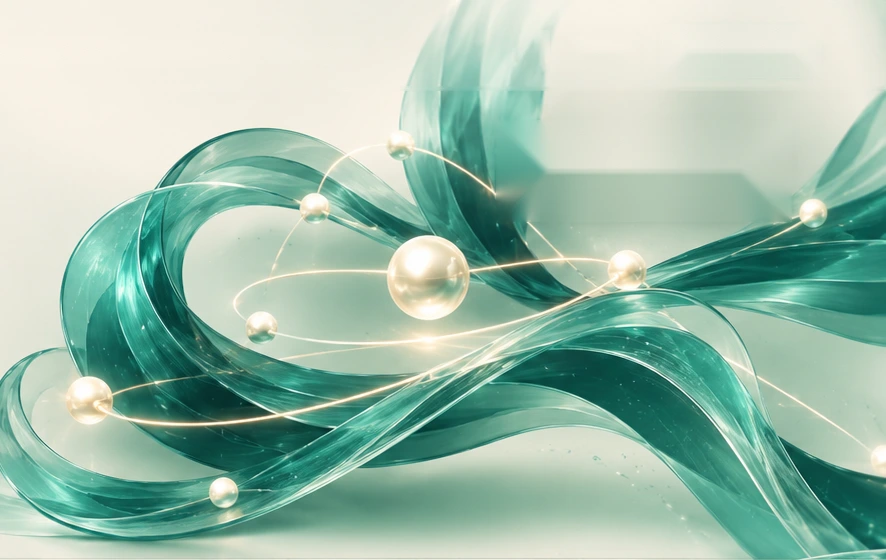
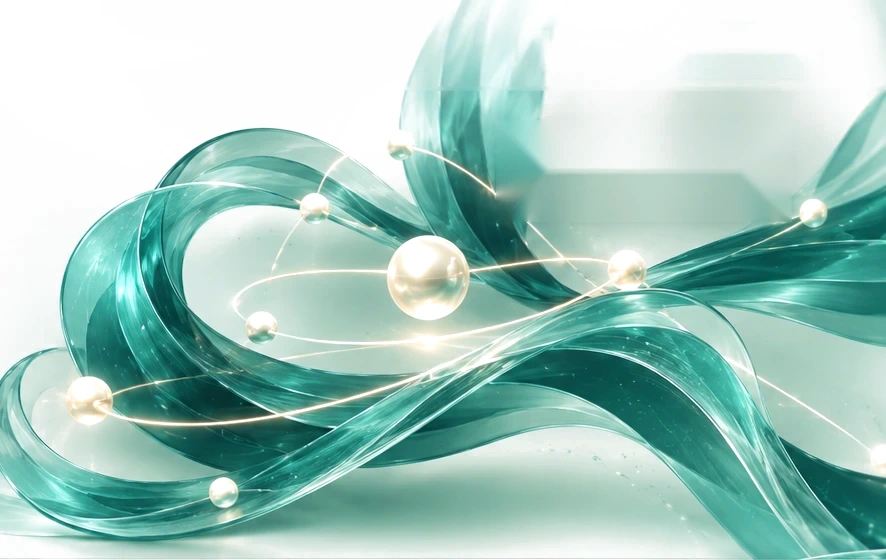
pura cream to white

diff --git a/src/components/layout/Navbar.module.css b/src/components/layout/Navbar.module.css
@@ -6,7 +6,7 @@
   transition: background 0.5s var(--ease), box-shadow 0.5s var(--ease), border-color 0.5s;
 }
 .scrolled {
-  background: rgba(251, 246, 236, 0.78);
+  background: rgba(255, 255, 255, 0.78);
   backdrop-filter: blur(16px) saturate(1.2);
   -webkit-backdrop-filter: blur(16px) saturate(1.2);
   box-shadow: 0 10px 30px -24px rgba(3, 52, 50, 0.5);
@@ -72,7 +72,7 @@
   min-width: 230px;
   padding: 10px;
   border-radius: 16px;
-  background: rgba(255, 253, 248, 0.94);
+  background: rgba(255, 255, 255, 0.94);
   backdrop-filter: blur(18px);
   -webkit-backdrop-filter: blur(18px);
   border: 1px solid rgba(3, 82, 77, 0.1);
@@ -159,7 +159,7 @@
   overflow-y: auto;
   padding: 10px 18px 20px;
   border-radius: 22px;
-  background: rgba(251, 246, 236, 0.97);
+  background: rgba(255, 255, 255, 0.97);
   backdrop-filter: blur(18px);
   -webkit-backdrop-filter: blur(18px);
   border: 1px solid var(--line);

diff --git a/src/components/forms/MatchWizard.module.css b/src/components/forms/MatchWizard.module.css
@@ -3,7 +3,7 @@
   overflow: hidden;
   min-height: 100vh;
   padding: calc(var(--nav-h) + 50px) var(--gutter) 90px;
-  background: linear-gradient(180deg, #fcf7ee 0%, #eef4ef 100%);
+  background: linear-gradient(180deg, #ffffff 0%, #ffffff 100%);
 }
 .bgRibbon {
   position: absolute;
@@ -11,7 +11,7 @@
   top: 0;
   width: 70%;
   aspect-ratio: 886 / 560;
-  background: url('/images/hero-ribbons.webp') center / cover no-repeat;
+  background: url('/images/hero-ribbons-white.webp') center / cover no-repeat;
   opacity: 0.35;
   -webkit-mask-image: radial-gradient(ellipse at 60% 40%, #000 30%, transparent 70%);
   mask-image: radial-gradient(ellipse at 60% 40%, #000 30%, transparent 70%);

diff --git a/src/components/sections/AiMatching.module.css b/src/components/sections/AiMatching.module.css
@@ -4,7 +4,7 @@
   padding: clamp(100px, 11vw, 170px) var(--gutter);
   background:
     radial-gradient(ellipse 50% 60% at 78% 50%, rgba(43, 165, 140, 0.14), rgba(43, 165, 140, 0) 70%),
-    linear-gradient(180deg, #f3efe3 0%, #eef4ef 100%);
+    linear-gradient(180deg, #ffffff 0%, #ffffff 100%);
 }
 .ghost {
   position: absolute;
@@ -282,7 +282,7 @@
   font-size: 13.5px;
   font-weight: 600;
   color: var(--ink-2);
-  background: rgba(255, 253, 248, 0.9);
+  background: rgba(255, 255, 255, 0.9);
   backdrop-filter: blur(12px);
   -webkit-backdrop-filter: blur(12px);
   border: 1px solid rgba(255, 255, 255, 0.95);

diff --git a/src/components/forms/SignInForm.tsx b/src/components/forms/SignInForm.tsx
@@ -40,7 +40,7 @@ export default function SignInForm() {
         transition={{ duration: 1.2, delay: 0.4, ease }}
       >
         <div className={styles.artImg} aria-hidden="true">
-          <Image src="/images/hero-ribbons.webp" alt="" fill priority sizes="50vw" style={{ objectFit: 'cover' }} />
+          <Image src="/images/hero-ribbons-white.webp" alt="" fill priority sizes="50vw" style={{ objectFit: 'cover' }} />
         </div>
         <div className={styles.artCopy}>
           <p className={styles.artQuote}>

diff --git a/src/components/sections/CtaBand.tsx b/src/components/sections/CtaBand.tsx
@@ -18,7 +18,7 @@ export default function CtaBand() {
   return (
     <section ref={ref} className={styles.section}>
       <motion.div className={styles.art} style={{ x: artX, rotate: artRotate }} aria-hidden="true">
-        <Image src="/images/hero-ribbons.webp" alt="" fill sizes="70vw" style={{ objectFit: 'cover' }} />
+        <Image src="/images/hero-ribbons-white.webp" alt="" fill sizes="70vw" style={{ objectFit: 'cover' }} />
       </motion.div>
       <div className={styles.veil} aria-hidden="true" />
 

diff --git a/src/components/sections/Hero.module.css b/src/components/sections/Hero.module.css
@@ -1,6 +1,6 @@
 .wrap {
   position: relative;
-  background: linear-gradient(180deg, #fcf7ee 0%, var(--cream-2) 100%);
+  background: linear-gradient(180deg, #ffffff 0%, var(--cream-2) 100%);
   overflow: hidden;
 }
 
@@ -65,7 +65,7 @@
   gap: 16px;
   padding: 18px 20px;
   border-radius: 14px;
-  background: rgba(250, 248, 242, 0.86);
+  background: rgba(255, 255, 255, 0.86);
   backdrop-filter: blur(16px);
   -webkit-backdrop-filter: blur(16px);
   border: 1px solid rgba(255, 255, 255, 0.95);

diff --git a/src/components/page/PageHero.tsx b/src/components/page/PageHero.tsx
@@ -40,7 +40,7 @@ export default function PageHero({ crumb, eyebrow, title, text, primary, seconda
         aria-hidden="true"
       >
         <div className={`${styles.float} ${flip ? styles.flip : ''}`}>
-          <Image src="/images/hero-ribbons.webp" alt="" fill priority sizes="60vw" style={{ objectFit: 'cover' }} />
+          <Image src="/images/hero-ribbons-white.webp" alt="" fill priority sizes="60vw" style={{ objectFit: 'cover' }} />
         </div>
       </motion.div>
 

diff --git a/src/components/sections/MarqueeBand.module.css b/src/components/sections/MarqueeBand.module.css
@@ -16,9 +16,9 @@
 }
 .band::before {
   left: 0;
-  background: linear-gradient(90deg, var(--cream), rgba(251, 246, 236, 0));
+  background: linear-gradient(90deg, var(--cream), rgba(255, 255, 255, 0));
 }
 .band::after {
   right: 0;
-  background: linear-gradient(270deg, var(--cream), rgba(251, 246, 236, 0));
+  background: linear-gradient(270deg, var(--cream), rgba(255, 255, 255, 0));
 }

diff --git a/src/components/sections/Hero.tsx b/src/components/sections/Hero.tsx
@@ -62,7 +62,7 @@ export default function Hero() {
         <motion.div className={styles.parallax} style={{ y: visY, opacity: visOpacity }}>
           <div className={styles.ribbons}>
             <Image
-              src="/images/hero-ribbons.webp"
+              src="/images/hero-ribbons-white.webp"
               alt=""
               fill
               priority

diff --git a/src/app/not-found.tsx b/src/app/not-found.tsx
@@ -9,7 +9,7 @@ export default function NotFound() {
         placeItems: 'center',
         textAlign: 'center',
         padding: '140px 24px 80px',
-        background: 'linear-gradient(180deg, #fcf7ee 0%, #eef4ef 100%)',
+        background: 'linear-gradient(180deg, #ffffff 0%, #ffffff 100%)',
       }}
     >
       <div>

diff --git a/src/components/effects/WaterRipple.module.css b/src/components/effects/WaterRipple.module.css
@@ -17,7 +17,7 @@
   padding: 0 16px 0 6px;
   border-radius: 999px;
   border: 1px solid rgba(11, 47, 44, 0.12);
-  background: rgba(251, 246, 236, 0.82);
+  background: rgba(255, 255, 255, 0.82);
   backdrop-filter: blur(14px);
   -webkit-backdrop-filter: blur(14px);
   box-shadow: 0 16px 34px -20px rgba(3, 52, 50, 0.55);

diff --git a/src/components/page/PageHero.module.css b/src/components/page/PageHero.module.css
@@ -5,7 +5,7 @@
   display: flex;
   align-items: center;
   padding: calc(var(--nav-h) + 50px) var(--gutter) 80px;
-  background: linear-gradient(180deg, #fcf7ee 0%, var(--cream-2) 100%);
+  background: linear-gradient(180deg, #ffffff 0%, var(--cream-2) 100%);
   border-bottom: 1px solid var(--line);
 }
 .compact {
